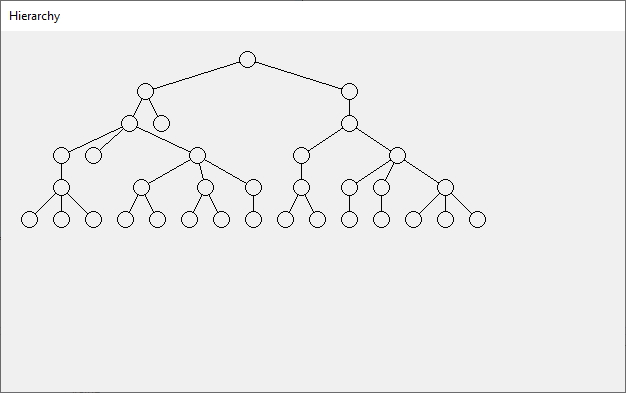
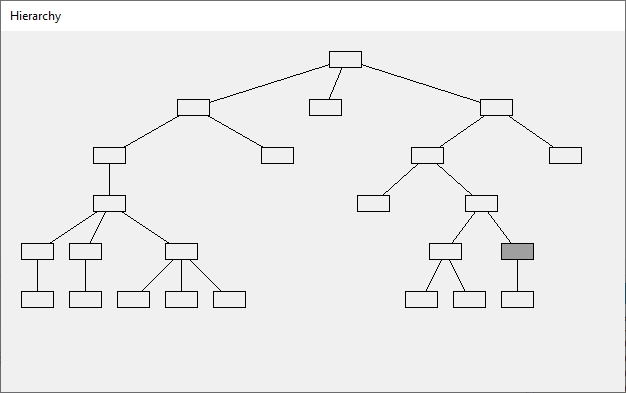
Code for Hierarchy complete.

diff --git a/More.Windows.Forms/Controls/Hierarchy.cs b/More.Windows.Forms/Controls/Hierarchy.cs
@@ -6,7 +6,7 @@
  * MIT License (see: LICENSE)
  * Copyright (c) 2020 Tomaz Stih
  * 
- * 21.12.2020   tstih
+ * 23.12.2020   tstih       Merry Christmas.
  * 
  */
 using System.Collections.Generic;
@@ -14,10 +14,11 @@ using System.Linq;
 using System.Drawing;
 using System.Windows.Forms;
 using System;
+using System.ComponentModel;
 
 namespace More.Windows.Forms
 {
-    public class Hierarchy : Control
+    public class Hierarchy : ScrollableControl
     {
         #region Const(s)
         private const int DEFAULT_NODE_WIDTH = 96;
@@ -61,6 +62,7 @@ namespace More.Windows.Forms
             _nodeHeight = DEFAULT_NODE_HEIGHT;
             _nodeHorzSpacing = DEFAULT_NODE_HORZ_SPACING;
             _nodeVertSpacing = DEFAULT_NODE_VERT_SPACING;
+            _direction = Direction.Left2Right;
 
             _nodes = new List<HierarchyNode>();
         }
@@ -74,6 +76,16 @@ namespace More.Windows.Forms
             // Store and repaint.
             _feed = feed; Relayout(); Invalidate();
         }
+
+        public string NodeAt(Point pt)
+        {
+            Point phyPt = new Point(pt.X - AutoScrollPosition.X, pt.Y - AutoScrollPosition.Y);
+            foreach (HierarchyNode n in _nodes)
+                if (n.Rectangle.Contains(phyPt))
+                    return n.Key;
+            // Not found.
+            return null;
+        }
         #endregion // Method(s)
 
         #region Override(s)
@@ -86,21 +98,36 @@ namespace More.Windows.Forms
         {
             foreach(HierarchyNode n in _nodes)
             {
+                // And draw node.
+                Rectangle parentRect = n.Rectangle;
+                parentRect.Offset(AutoScrollPosition);
+
                 // First draw all node edges (if children?)
                 foreach (HierarchyNode nc in n.Children)
-                    DrawEdge.Raise(this, 
+                {
+                    // And draw node.
+                    Rectangle childRect = nc.Rectangle;
+                    childRect.Offset(AutoScrollPosition);
+
+                    // And draw edge.
+                    DrawEdge.Raise(this,
                         new DrawEdgeEventArgs(
                             e.Graphics,
                             n.Key,
-                            n.Rectangle,
+                            parentRect,
                             nc.Key,
-                            nc.Rectangle
+                            childRect
                         ));
+                }
             }
 
-            foreach(HierarchyNode n in _nodes)
+            foreach (HierarchyNode n in _nodes)
+            {
                 // And draw node.
-                DrawNode.Raise(this, new DrawNodeEventArgs(e.Graphics, n.Key, n.Rectangle));
+                Rectangle nodeRect = n.Rectangle;
+                nodeRect.Offset(AutoScrollPosition);
+                DrawNode.Raise(this, new DrawNodeEventArgs(e.Graphics, n.Key, nodeRect));
+            }
         }
         #endregion // Override(s)
 
@@ -111,17 +138,24 @@ namespace More.Windows.Forms
 
         #region Properties
         int _nodeWidth;
-        public int NodeWidth { get { return _nodeWidth; } set { _nodeWidth = value; Invalidate(); } }
+        [Description("Node width"), Category("Layout")]
+        public int NodeWidth { get { return _nodeWidth; } set { _nodeWidth = value; Relayout(); } }
 
         int _nodeHeight;
-        public int NodeHeight{ get { return _nodeHeight; } set { _nodeHeight = value; Invalidate(); } }
+        [Description("Node height"), Category("Layout")]
+        public int NodeHeight{ get { return _nodeHeight; } set { _nodeHeight = value; Relayout(); } }
 
         int _nodeHorzSpacing;
-        public int NodeHorzSpacing { get { return _nodeHorzSpacing; } set { _nodeHorzSpacing = value; Invalidate(); } }
+        [Description("Min. horizontal space between two nodes"), Category("Layout")]
+        public int NodeHorzSpacing { get { return _nodeHorzSpacing; } set { _nodeHorzSpacing = value; Relayout(); } }
 
         int _nodeVertSpacing;
-        public int NodeVertSpacing { get { return _nodeVertSpacing; } set { _nodeVertSpacing = value; Invalidate(); } }
+        [Description("Min. vertical space between two nodes"), Category("Layout")]
+        public int NodeVertSpacing { get { return _nodeVertSpacing; } set { _nodeVertSpacing = value; Relayout(); } }
 
+        Direction _direction;
+        [Description("Graph direction"), Category("Layout")]
+        public Direction Direction { get { return _direction; } set { _direction = value; Relayout(); } }
         #endregion // Properties
 
         #region Helper(s)
@@ -135,68 +169,142 @@ namespace More.Windows.Forms
             }
 
             // First level.
-            Dictionary<int, int> levelx = new Dictionary<int, int>();
-            AddNode(levelx);
+            int coord = 0;
+            AddNodes(ref coord);
+            NeedReverse();
+
+            // Update scrollbars.
+            Rectangle graphRect = GetTreeBoundingRect();
+            AutoScrollMinSize = graphRect.Size;
+
+            // And, finally, invalidate.
+            Invalidate();
         }
 
-        private HierarchyNode AddNode(Dictionary<int, int> levelx, string pkey=null, int level=-1)
+        // Basic algorithm of tree drawing in three steps.
+        // 1) Allocate new slot for every node without children
+        // 2) Ident children
+        // 2) Don't allocate slot for nodes with children, simply center them on top of children
+        private HierarchyNode AddNodes(ref int coord, string pkey=null, int level=0)
         {
             var children = _feed.Query(pkey);
-            if (children.Count() > 0)
-            { // Iterate through all children.
-                var hierarchyNodes = new List<HierarchyNode>();
-                foreach (string key in _feed.Query(pkey)) // Go all the way.
-                    hierarchyNodes.Add(AddNode(levelx, key, level + 1));
-                if (pkey == null) return null;
-                // Create me on top of them.
-                int startx = hierarchyNodes.First().Rectangle.Left,
-                    endx = hierarchyNodes.Last().Rectangle.Right;
-                Rectangle targetRect = new Rectangle(
-                    startx,
-                    level * (NodeHeight + NodeVertSpacing),
-                    endx-startx+1,
-                    NodeHeight);
-                var nodeRect=targetRect.Center(new Size(NodeWidth, NodeHeight), Padding.Empty);
-                if (levelx.ContainsKey(level) && nodeRect.Left < levelx[level])
-                {   // Place taken. Propagate down the hierarchy.
-                    int diffx = levelx[level] - nodeRect.Left + NodeHorzSpacing;
-                    nodeRect = new Rectangle(levelx[level], nodeRect.Top, nodeRect.Width, nodeRect.Height);
-                    MoveChildrenRight(hierarchyNodes, diffx, level+1,levelx);
-                }
-                var n = new HierarchyNode(pkey,nodeRect);
-                n.Children = hierarchyNodes;
-                levelx[level] = nodeRect.Right + NodeHorzSpacing;
-                _nodes.Add(n);
-                return n;
+            if (children.Count() == 0)
+            { // Parent has no children.
+                var hierarchyNode = new HierarchyNode(pkey,CalcNodeRectangle(level, coord));
+                _nodes.Add(hierarchyNode);
+                NextCoord(ref coord, hierarchyNode); // Allocate slot.
+                return hierarchyNode;
             }
             else
-            { // We have no children.
-                if (!levelx.ContainsKey(level)) levelx.Add(level, 0);
-                // Position the node.
-                var n = new HierarchyNode(
-                    pkey,
-                    new Rectangle(
-                        levelx[level],
-                        level * (NodeHeight + NodeVertSpacing),
-                        NodeWidth,
-                        NodeHeight
-                    )
-                );
-                levelx[level] = levelx[level] + NodeWidth + NodeHorzSpacing;
-                _nodes.Add(n);
-                return n;
+            { // Parent has children. Reserve no slot.
+                HierarchyNode hierarchyNode = null;
+                if (pkey != null)
+                {
+                    hierarchyNode = new HierarchyNode(pkey,CalcNodeRectangle(level, coord));
+                    _nodes.Add(hierarchyNode);
+                }
+                // And recurse.
+                List<HierarchyNode> hierarchyChildren = new List<HierarchyNode>();
+                foreach (var ckey in children)
+                    hierarchyChildren.Add(AddNodes(ref coord, ckey, level + 1));
+                // Only in case there is a parent.
+                if (hierarchyNode != null)
+                {
+                    // Now center parent!
+                    hierarchyNode.Children = hierarchyChildren;
+                    hierarchyNode.Rectangle = CenterOverChildren(hierarchyNode, hierarchyChildren);
+
+                }
+                return hierarchyNode;
             }
         }
 
-        private void MoveChildrenRight(List<HierarchyNode> children, int diffx, int level, Dictionary<int, int> levelx)
+        private void NextCoord(ref int coord, HierarchyNode node)
         {
-            foreach(HierarchyNode n in children)
-            {
-                n.Rectangle = new Rectangle(n.Rectangle.X + diffx, n.Rectangle.Top, n.Rectangle.Width, n.Rectangle.Height);
-                if (levelx.ContainsKey(level) && n.Rectangle.X + diffx > levelx[level])
-                    levelx[level] = n.Rectangle.X + diffx;
-                MoveChildrenRight(n.Children, diffx, level + 1, levelx);
-            }
+            if (IsHorizontal)
+                coord = node.Rectangle.Bottom + NodeVertSpacing;
+            else
+                coord = node.Rectangle.Right + NodeHorzSpacing;
+
+        }
+
+        private Rectangle CenterOverChildren(HierarchyNode parent, IEnumerable<HierarchyNode> children)
+        {
+            int start = IsHorizontal ? children.First().Rectangle.Top : children.First().Rectangle.Left, 
+                end = IsHorizontal ? children.Last().Rectangle.Bottom : children.Last().Rectangle.Right;
+
+            Rectangle areaOfInterest;
+            
+            if(IsHorizontal)
+                areaOfInterest = new Rectangle(
+                    parent.Rectangle.Left,
+                    start,
+                    parent.Rectangle.Width,
+                    end - start + 1
+                    );
+            else
+                areaOfInterest = new Rectangle(
+                    start,
+                    parent.Rectangle.Top,
+                    end-start + 1,
+                    parent.Rectangle.Height
+                    );
+
+            return areaOfInterest.Center(parent.Rectangle.Size, Padding.Empty);
+        }
+
+        private Rectangle CalcNodeRectangle(int level, int coord)
+        {
+            // Horizontal?
+            if (IsHorizontal)
+                return new Rectangle(
+                    (NodeWidth + NodeHorzSpacing) * (level - 1),
+                    coord,
+                    NodeWidth,
+                    NodeHeight
+                );
+            else
+                return new Rectangle(
+                    coord,
+                    (NodeHeight + NodeVertSpacing) * (level - 1),
+                    NodeWidth,
+                    NodeHeight
+                );
+        }
+
+        private bool IsHorizontal
+        { 
+            get { return Direction == Direction.Left2Right || Direction == Direction.Right2Left; }
+        }
+
+        // Takes left to right graph and reverse it to right to left.
+        private void NeedReverse()
+        {
+            Rectangle bounds = GetTreeBoundingRect();
+            foreach (HierarchyNode n in _nodes)
+                if(Direction==Direction.Right2Left)
+                    n.Rectangle = new Rectangle(
+                        bounds.Right-n.Rectangle.Left-n.Rectangle.Width,
+                        n.Rectangle.Top,
+                        n.Rectangle.Width,
+                        n.Rectangle.Height
+                    );
+                else if (Direction==Direction.Bottom2Top)
+                    n.Rectangle = new Rectangle(
+                        n.Rectangle.Left,
+                        bounds.Bottom - n.Rectangle.Top-n.Rectangle.Height,
+                        n.Rectangle.Width,
+                        n.Rectangle.Height
+                    );
+        }
+
+        private Rectangle GetTreeBoundingRect()
+        {
+            int x = _nodes.Min(n => n.Rectangle.Left),
+                y = _nodes.Min(n => n.Rectangle.Top),
+                x2 = _nodes.Max(n => n.Rectangle.Right),
+                y2 = _nodes.Max(n => n.Rectangle.Bottom);
+            return new Rectangle(x,y,x2-x+1, y2-y+1);
         }
         #endregion // Helper(s)
     }
@@ -218,7 +326,7 @@ namespace More.Windows.Forms
         public string Key { private set; get; }
 
     }
-
+    
     public class DrawEdgeEventArgs: EventArgs
     {
         public DrawEdgeEventArgs(Graphics g, string parentKey, Rectangle parentRect, string childKey, Rectangle childRect)

diff --git a/More/MainWnd.cs b/More/MainWnd.cs
@@ -48,11 +48,35 @@ namespace More
         {
             Graphics g = e.Graphics;
             using (Pen p = new Pen(ForeColor))
-            using (Brush backBrush = new SolidBrush(BackColor), foreBrush = new SolidBrush(ForeColor))
+            using (Brush backBrush = new SolidBrush(BackColor),
+                foreBrush = new SolidBrush(ForeColor),
+                selectedBrush = new SolidBrush(Color.FromKnownColor(KnownColor.ControlDark)))
             {
-                g.FillEllipse(backBrush, e.Rectangle);
-                g.DrawEllipse(p, e.Rectangle);
+                if (e.Key.Equals(highlightedNode))
+                    g.FillRectangle(selectedBrush, e.Rectangle);
+                else
+                    g.FillRectangle(backBrush, e.Rectangle);
+                g.DrawRectangle(p, e.Rectangle);
             }
+        }
+
+        private Direction Opposite(Direction d)
+        {
+            Dictionary<Direction, Direction> opposites = new Dictionary<Direction, Direction>()
+            {
+                { Direction.Left2Right,Direction.Right2Left },
+                { Direction.Right2Left,Direction.Left2Right },
+                { Direction.Top2Bottom,Direction.Bottom2Top },
+                { Direction.Bottom2Top,Direction.Top2Bottom }
+            };
+            return opposites[d];
+        }
+
+        string highlightedNode;
+        private void _hierarchy_MouseUp(object sender, MouseEventArgs e)
+        {
+            highlightedNode = _hierarchy.NodeAt(e.Location);
+            _hierarchy.Refresh();
         }
     }
 

diff --git a/More/MainWnd.Designer.cs b/More/MainWnd.Designer.cs
@@ -33,18 +33,19 @@
             // 
             // _hierarchy
             // 
+            this._hierarchy.Direction = More.Windows.Forms.Direction.Left2Right;
             this._hierarchy.Dock = System.Windows.Forms.DockStyle.Fill;
-            this._hierarchy.Font = new System.Drawing.Font("Segoe UI", 8F, System.Drawing.FontStyle.Regular, System.Drawing.GraphicsUnit.Point);
             this._hierarchy.Location = new System.Drawing.Point(20, 20);
             this._hierarchy.Name = "_hierarchy";
             this._hierarchy.NodeHeight = 16;
             this._hierarchy.NodeHorzSpacing = 16;
-            this._hierarchy.NodeVertSpacing = 16;
-            this._hierarchy.NodeWidth = 16;
+            this._hierarchy.NodeVertSpacing = 32;
+            this._hierarchy.NodeWidth = 32;
             this._hierarchy.Size = new System.Drawing.Size(584, 321);
             this._hierarchy.TabIndex = 0;
             this._hierarchy.DrawNode += new System.EventHandler<More.Windows.Forms.DrawNodeEventArgs>(this._hierarchy_DrawNode);
             this._hierarchy.DrawEdge += new System.EventHandler<More.Windows.Forms.DrawEdgeEventArgs>(this._hierarchy_DrawEdge);
+            this._hierarchy.MouseUp += new System.Windows.Forms.MouseEventHandler(this._hierarchy_MouseUp);
             // 
             // MainWnd
             // 
@@ -64,6 +65,7 @@
         #endregion
 
         private Windows.Forms.Hierarchy _hierarchy;
+        private Windows.Forms.Hierarchy hierarchy1;
     }
 }
 
